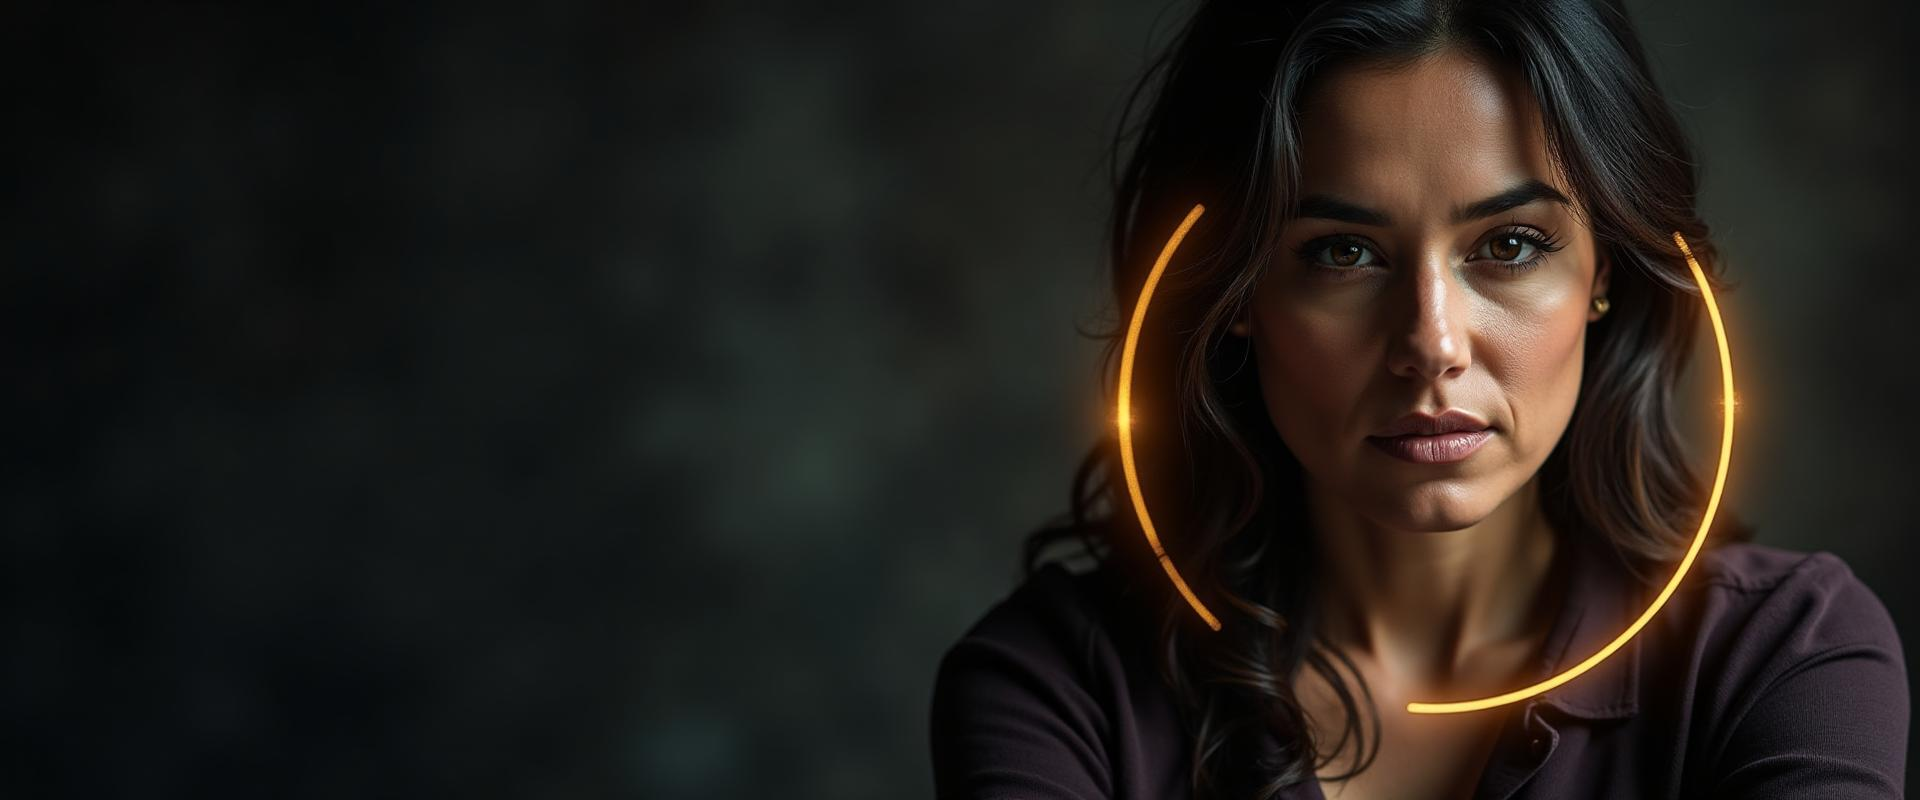
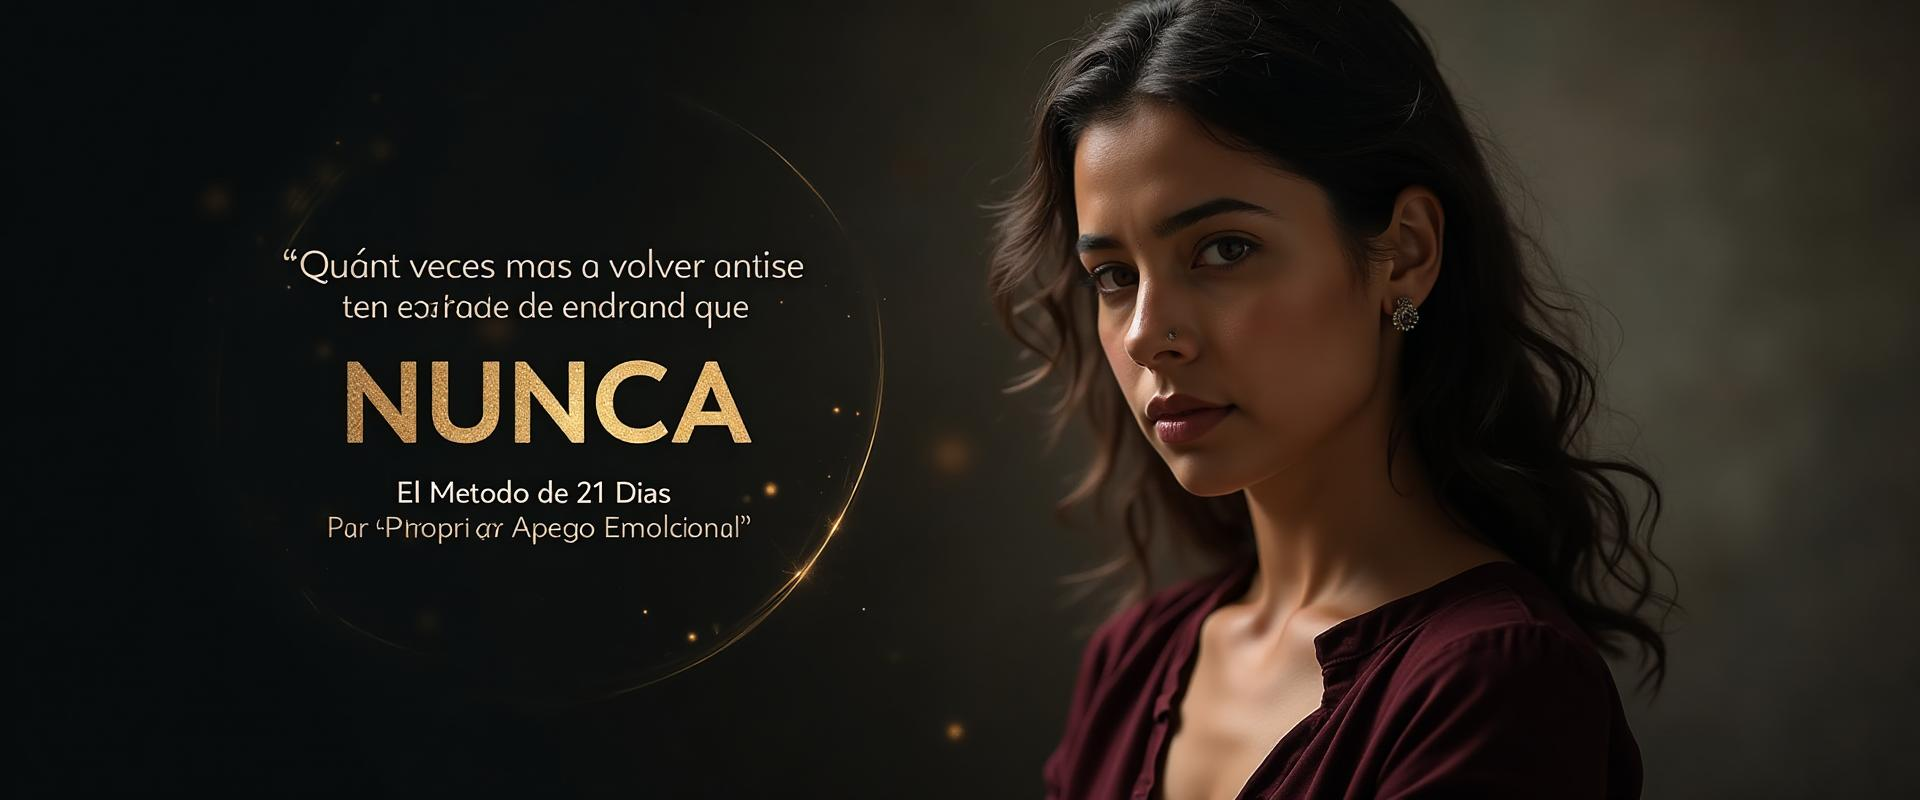
Changes

diff --git a/src/pages/ClaseMeet.tsx b/src/pages/ClaseMeet.tsx
@@ -65,50 +65,50 @@ const ClaseMeet = () => {
   return (
     <div className="min-h-screen bg-black text-white">
       {/* SECCIÓN 1 - HERO CON IMAGEN CINEMATOGRÁFICA */}
-      <section className="relative min-h-screen flex flex-col">
+      <section className="relative min-h-[100svh] flex flex-col">
         {/* Imagen de fondo con overlay */}
         <div className="absolute inset-0">
           <img 
             src={heroImage} 
             alt="Clase sobre apego emocional y narcisismo" 
-            className="w-full h-full object-cover object-right md:object-center"
+            className="w-full h-full object-cover object-[75%_center] sm:object-center"
           />
-          <div className="absolute inset-0 bg-gradient-to-r from-black via-black/80 to-transparent" />
-          <div className="absolute inset-0 bg-gradient-to-t from-black via-transparent to-black/50" />
+          <div className="absolute inset-0 bg-gradient-to-r from-black/95 via-black/70 to-black/40 md:from-black md:via-black/80 md:to-transparent" />
+          <div className="absolute inset-0 bg-gradient-to-t from-black via-transparent to-black/30" />
         </div>
 
         {/* Contenido del hero */}
-        <div className="relative z-10 flex-1 flex items-center px-4 py-12">
-          <div className="max-w-4xl mx-auto md:mx-0 md:ml-[8%] animate-fade-in">
-            <h1 className="text-3xl sm:text-4xl md:text-5xl lg:text-6xl font-black leading-tight mb-4 text-white">
+        <div className="relative z-10 flex-1 flex items-start pt-8 sm:pt-12 md:items-center md:pt-0 px-4 sm:px-6">
+          <div className="max-w-4xl mx-auto md:mx-0 md:ml-[5%] lg:ml-[8%] animate-fade-in w-full">
+            <h1 className="text-2xl sm:text-3xl md:text-4xl lg:text-5xl xl:text-6xl font-black leading-tight mb-3 sm:mb-4 text-white">
               ¿Cuántas veces más vas a volver
               <br />
               <span className="text-white">antes de entender que </span>
-              <span className="text-[#D4AF37] text-4xl sm:text-5xl md:text-6xl lg:text-7xl">NUNCA</span>
+              <span className="text-[#D4AF37] text-3xl sm:text-4xl md:text-5xl lg:text-6xl xl:text-7xl">NUNCA</span>
               <span className="text-white"> cambiará?</span>
             </h1>
             
-            <p className="text-lg sm:text-xl md:text-2xl font-medium mb-2 text-gray-300 max-w-2xl">
+            <p className="text-base sm:text-lg md:text-xl lg:text-2xl font-medium mb-1 sm:mb-2 text-gray-300 max-w-2xl">
               El Método de <span className="text-[#D4AF37] font-bold">21 Días</span> Para Romper el Apego Emocional
             </p>
-            <p className="text-lg sm:text-xl md:text-2xl font-medium mb-8 text-gray-300 max-w-2xl">
+            <p className="text-base sm:text-lg md:text-xl lg:text-2xl font-medium mb-5 sm:mb-8 text-gray-300 max-w-2xl">
               y Liberarte del Narcisista Para Siempre
             </p>
 
             <button
               onClick={scrollToForm}
-              className="inline-block bg-[#D4AF37] text-black font-black text-base sm:text-lg md:text-xl px-8 sm:px-12 py-4 sm:py-5 rounded-full hover:bg-[#f4d03f] hover:shadow-[0_20px_60px_rgba(212,175,55,0.6)] hover:scale-105 transition-all duration-300 mb-8"
+              className="inline-block bg-[#D4AF37] text-black font-black text-sm sm:text-base md:text-lg lg:text-xl px-6 sm:px-8 md:px-12 py-3 sm:py-4 md:py-5 rounded-full hover:bg-[#f4d03f] hover:shadow-[0_20px_60px_rgba(212,175,55,0.6)] hover:scale-105 transition-all duration-300 mb-5 sm:mb-8"
             >
               RESERVA TU LUGAR GRATIS
             </button>
 
-            <div className="flex flex-col sm:flex-row items-start sm:items-center gap-4 sm:gap-8 text-base sm:text-lg text-gray-300">
+            <div className="flex flex-col sm:flex-row items-start sm:items-center gap-3 sm:gap-8 text-sm sm:text-base md:text-lg text-gray-300">
               <div className="flex items-center gap-2">
-                <Calendar className="w-5 h-5 text-[#D4AF37]" />
+                <Calendar className="w-4 h-4 sm:w-5 sm:h-5 text-[#D4AF37]" />
                 <span>Este Miércoles</span>
               </div>
               <div className="flex items-center gap-2">
-                <Clock className="w-5 h-5 text-[#D4AF37]" />
+                <Clock className="w-4 h-4 sm:w-5 sm:h-5 text-[#D4AF37]" />
                 <span>1:00 PM Hora Colombia</span>
               </div>
             </div>
